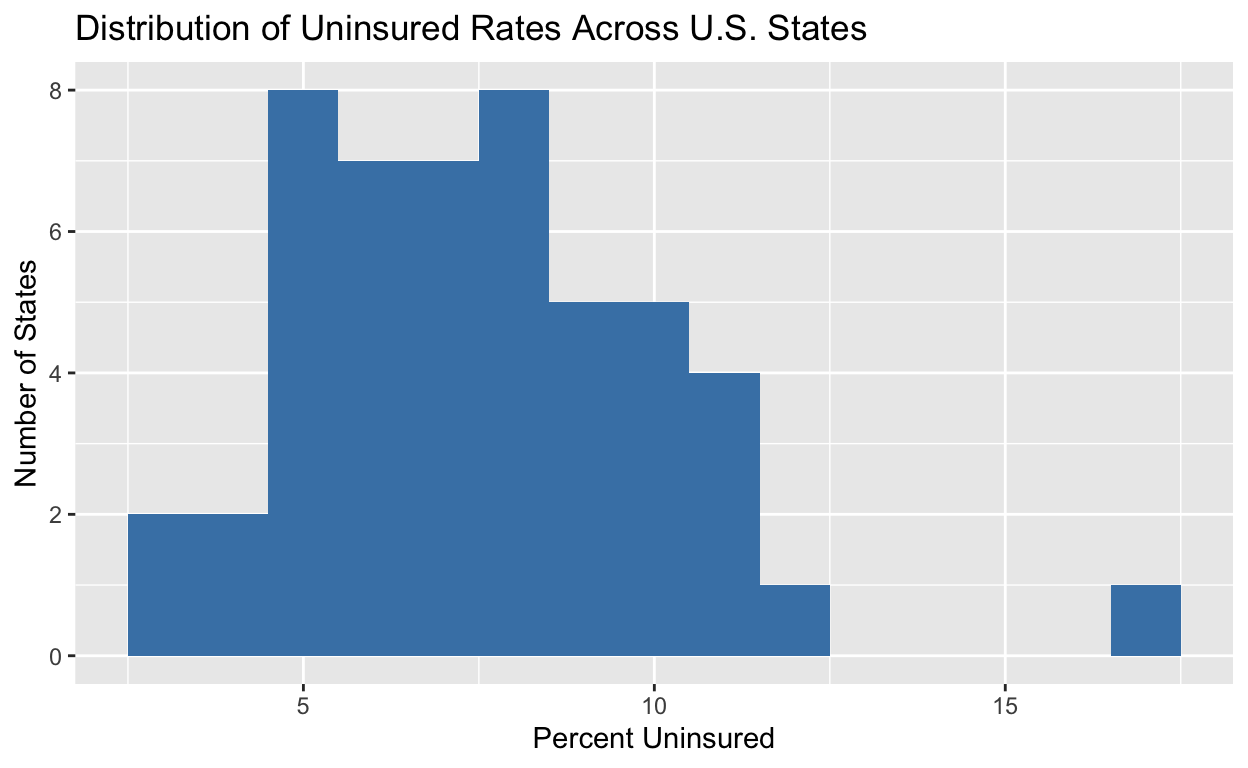
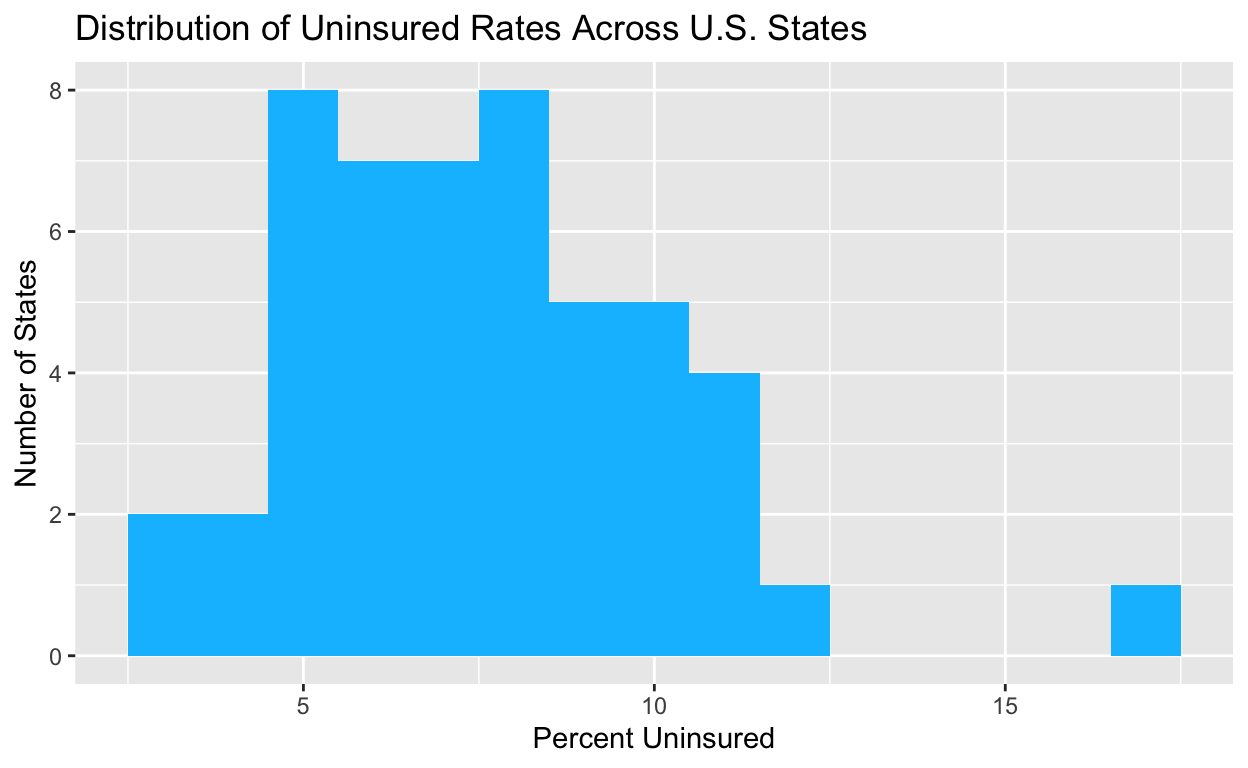
final project

Changed region(s): [[0.0938, 0.0938, 0.6875, 0.875], [0.875, 0.75, 0.9688, 0.875]]

diff --git a/index.html b/index.html
@@ -1758,7 +1758,7 @@ $ Income    &lt;dbl&gt; 35046, 45792, 41290, 33012, 48013, 51768, 53119, 4…</c
 <div class="sourceCode">
 <pre class="sourceCode r"><code class="sourceCode r"><span><span class='va'>final_data</span> <span class='op'>|&gt;</span></span>
 <span><span class='fu'><a href='https://ggplot2.tidyverse.org/reference/ggplot.html'>ggplot</a></span><span class='op'>(</span><span class='fu'><a href='https://ggplot2.tidyverse.org/reference/aes.html'>aes</a></span><span class='op'>(</span>x <span class='op'>=</span> <span class='va'>Uninsured</span><span class='op'>)</span><span class='op'>)</span> <span class='op'>+</span></span>
-<span>  <span class='fu'><a href='https://ggplot2.tidyverse.org/reference/geom_histogram.html'>geom_histogram</a></span><span class='op'>(</span>binwidth <span class='op'>=</span> <span class='fl'>1</span>, fill <span class='op'>=</span> <span class='st'>"steelblue"</span><span class='op'>)</span> <span class='op'>+</span></span>
+<span>  <span class='fu'><a href='https://ggplot2.tidyverse.org/reference/geom_histogram.html'>geom_histogram</a></span><span class='op'>(</span>binwidth <span class='op'>=</span> <span class='fl'>1</span>, fill <span class='op'>=</span> <span class='st'>"deepskyblue"</span><span class='op'>)</span> <span class='op'>+</span></span>
 <span>  <span class='fu'><a href='https://ggplot2.tidyverse.org/reference/labs.html'>labs</a></span><span class='op'>(</span></span>
 <span>    title <span class='op'>=</span> <span class='st'>"Distribution of Uninsured Rates Across U.S. States"</span>,</span>
 <span>    x <span class='op'>=</span> <span class='st'>"Percent Uninsured"</span>,</span>
